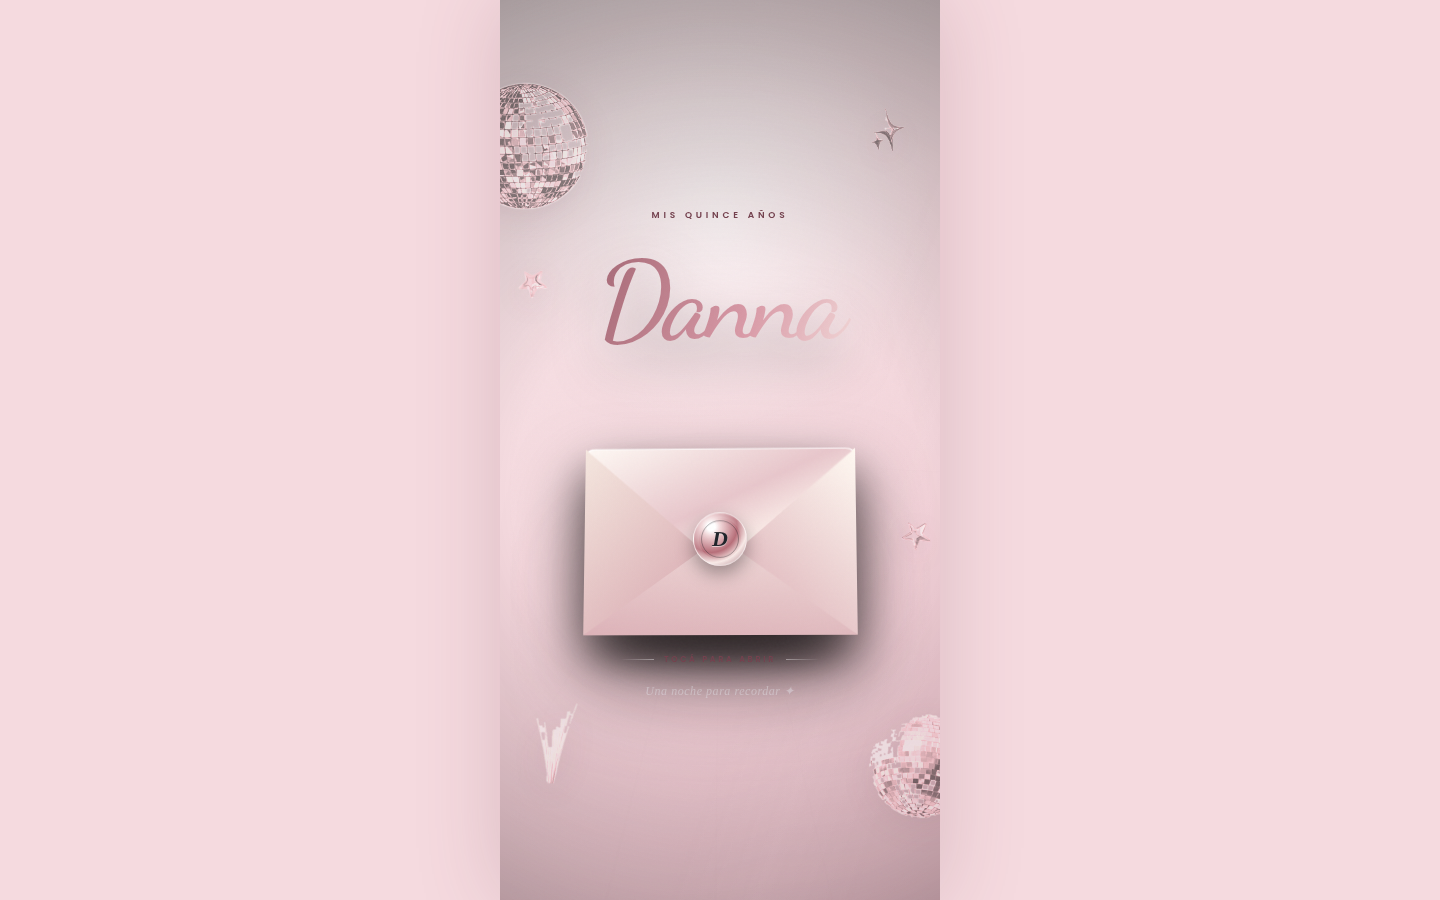
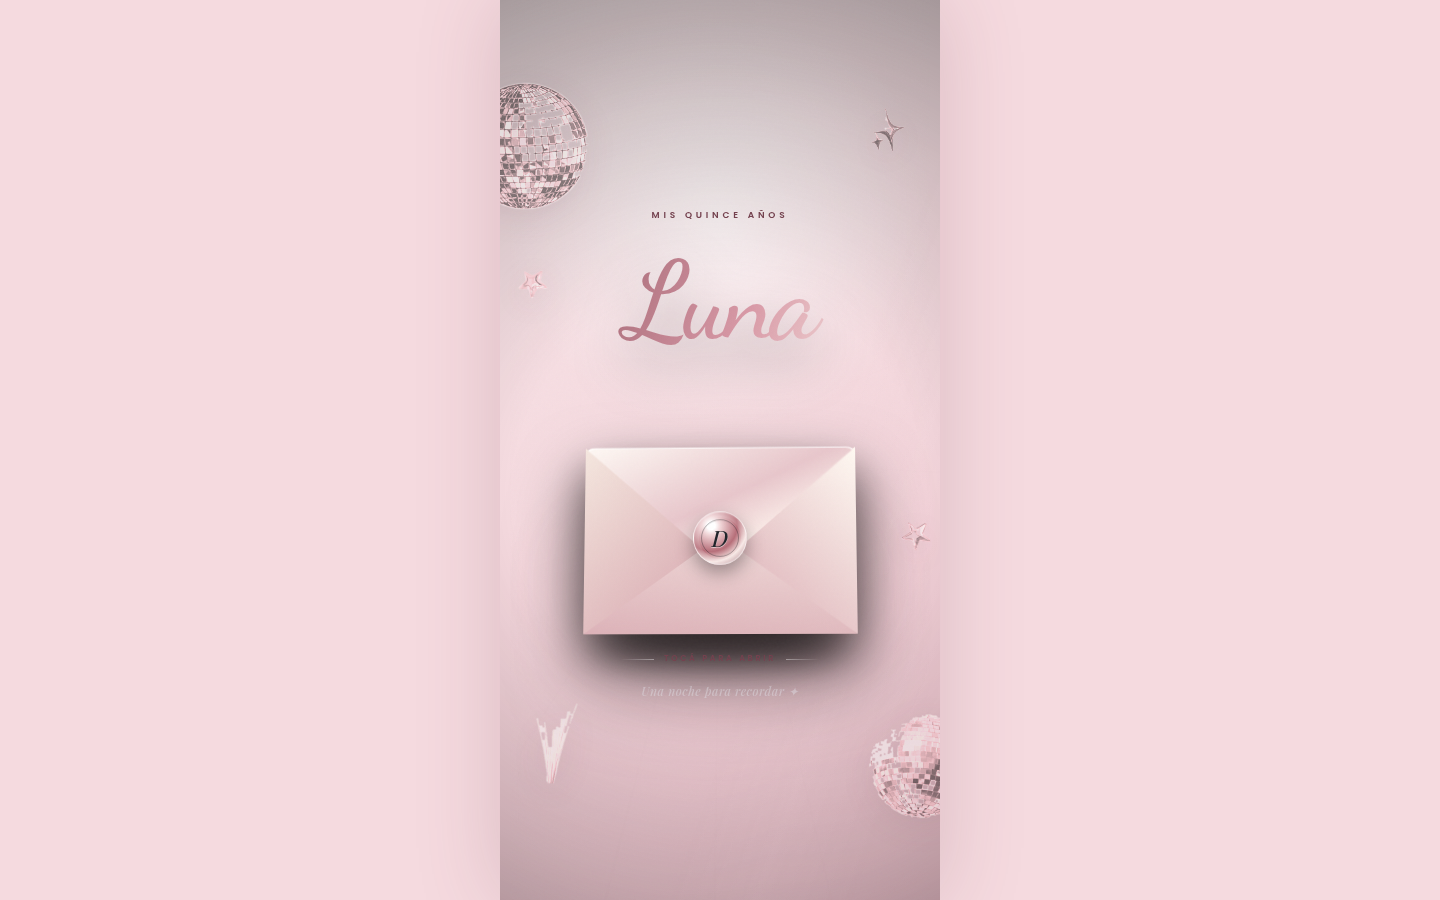
Correct invitation project name to Luna

Changed region(s): [[0.4062, 0.28, 0.5938, 0.4044]]

diff --git a/app/page.tsx b/app/page.tsx
@@ -14,7 +14,7 @@ export default function Home(){
   <section className="mfAbout"><div className="mfShell"><span>MI MANERA DE CREAR</span><p>No se trata solamente de que una página se vea linda. Busco que cada color, palabra y movimiento acompañe la historia que querés compartir.</p><div><b>01</b>Escucho tu idea <b>02</b>Encuentro su estilo <b>03</b>La llevo a la web</div></div></section>
   <section className="mfWork mfShell" id="trabajo"><div className="mfSectionHead"><span>PROYECTOS CON HISTORIA</span><h2>Ideas diferentes,<br/><em>experiencias con identidad.</em></h2></div><div className="mfPortfolioList"><a className="mfFeatured" href="https://invitacion-danna.vercel.app/" target="_blank" rel="noreferrer"><div className="mfProjectVisual"><img src="/projects/danna.png" alt="Invitación digital de Danna"/><span>PROYECTO PUBLICADO</span><i>XV</i></div><div className="mfProjectCopy"><small>INVITACIÓN DIGITAL</small><h3>Danna</h3><p>Una invitación delicada que reúne la emoción del evento, la información importante y la confirmación de asistencia en un solo lugar.</p><ul><li>Música</li><li>Galería</li><li>Ubicación</li><li>Confirmación</li></ul><strong>Visitar experiencia <span>↗</span></strong></div></a>
 <a className="mfFeatured mfFeaturedAlt" href="https://lumiere-beauty-smoky.vercel.app/" target="_blank" rel="noreferrer"><div className="mfProjectVisual"><img src="/projects/lumiere-beauty.png" alt="Página web de Lumière Beauty"/><span className="mfDevelopment">EN DESARROLLO</span><i>02</i></div><div className="mfProjectCopy"><small>PÁGINA WEB · BELLEZA</small><h3>Lumière Beauty</h3><p>Una experiencia editorial para una marca de belleza, cuidado personal e insumos, diseñada para presentar sus servicios con elegancia y facilitar cada consulta.</p><ul><li>Servicios</li><li>Insumos</li><li>Turnos</li><li>Responsive</li></ul><strong>Ver proyecto en desarrollo <span>↗</span></strong></div></a>
-<article className="mfFeatured mfInvitationProject"><div className="mfProjectVisual"><img src="/projects/invitacion-rosa.png" alt="Invitación digital de quince años en tonos rosa"/><span>PROYECTO REALIZADO</span><i>03</i></div><div className="mfProjectCopy"><small>INVITACIÓN DIGITAL · XV AÑOS</small><h3>Celebración en rosa</h3><p>Una experiencia envolvente con apertura interactiva, detalles brillantes y una estética delicada pensada para anunciar una noche inolvidable.</p><ul><li>Apertura interactiva</li><li>Música</li><li>Cuenta regresiva</li><li>RSVP</li></ul><strong>Diseño completo <span>✦</span></strong></div></article>
+<article className="mfFeatured mfInvitationProject"><div className="mfProjectVisual"><img src="/projects/invitacion-rosa.png" alt="Invitación digital de Luna"/><span>PROYECTO REALIZADO</span><i>03</i></div><div className="mfProjectCopy"><small>INVITACIÓN DIGITAL · XV AÑOS</small><h3>Celebración en rosa</h3><p>Una experiencia envolvente con apertura interactiva, detalles brillantes y una estética delicada pensada para anunciar una noche inolvidable.</p><ul><li>Apertura interactiva</li><li>Música</li><li>Cuenta regresiva</li><li>RSVP</li></ul><strong>Diseño completo <span>✦</span></strong></div></article>
 </div></section>
   <section className="mfServices" id="servicios"><div className="mfShell"><div className="mfSectionHead"><span>QUÉ PUEDO CREAR</span><h2>Dos caminos,<br/><em>infinitas posibilidades.</em></h2></div><div className="mfServiceGrid"><a href={waFor("una invitación digital")}><span>01 · MOMENTOS</span><div className="mfServiceIcon">✿</div><h3>Invitaciones digitales</h3><p>Para cumpleaños, XV, bodas y celebraciones que merecen una presentación especial.</p><ul><li>Cuenta regresiva y música</li><li>Galería, mapa y RSVP</li><li>Diseño adaptado a celulares</li></ul><strong>Consultar <WhatsAppIcon/></strong></a><a href={waFor("una página web")}><span>02 · PROYECTOS</span><div className="mfServiceIcon">⌁</div><h3>Páginas web</h3><p>Para emprendimientos y personas que necesitan mostrar lo que hacen con claridad y personalidad.</p><ul><li>Presentación de servicios</li><li>Catálogos y contacto</li><li>Experiencia responsive</li></ul><strong>Consultar <WhatsAppIcon/></strong></a></div></div></section>
   <section className="mfProcess mfShell" id="proceso"><div className="mfSectionHead"><span>UN PROCESO CERCANO</span><h2>De tu mundo<br/><em>a una página propia.</em></h2></div><div className="mfJourney"><article><b>01</b><small>NOS CONOCEMOS</small><h3>Me contás</h3><p>Charlamos sobre tu idea, lo que imaginás y aquello que querés transmitir.</p></article><article><b>02</b><small>LE DAMOS FORMA</small><h3>Te propongo</h3><p>Armo una dirección visual y ordeno el contenido para que todo tenga sentido.</p></article><article><b>03</b><small>LA HACEMOS REAL</small><h3>La creamos</h3><p>Desarrollo, ajustamos juntas los detalles y dejo tu página lista para compartir.</p></article></div></section>
